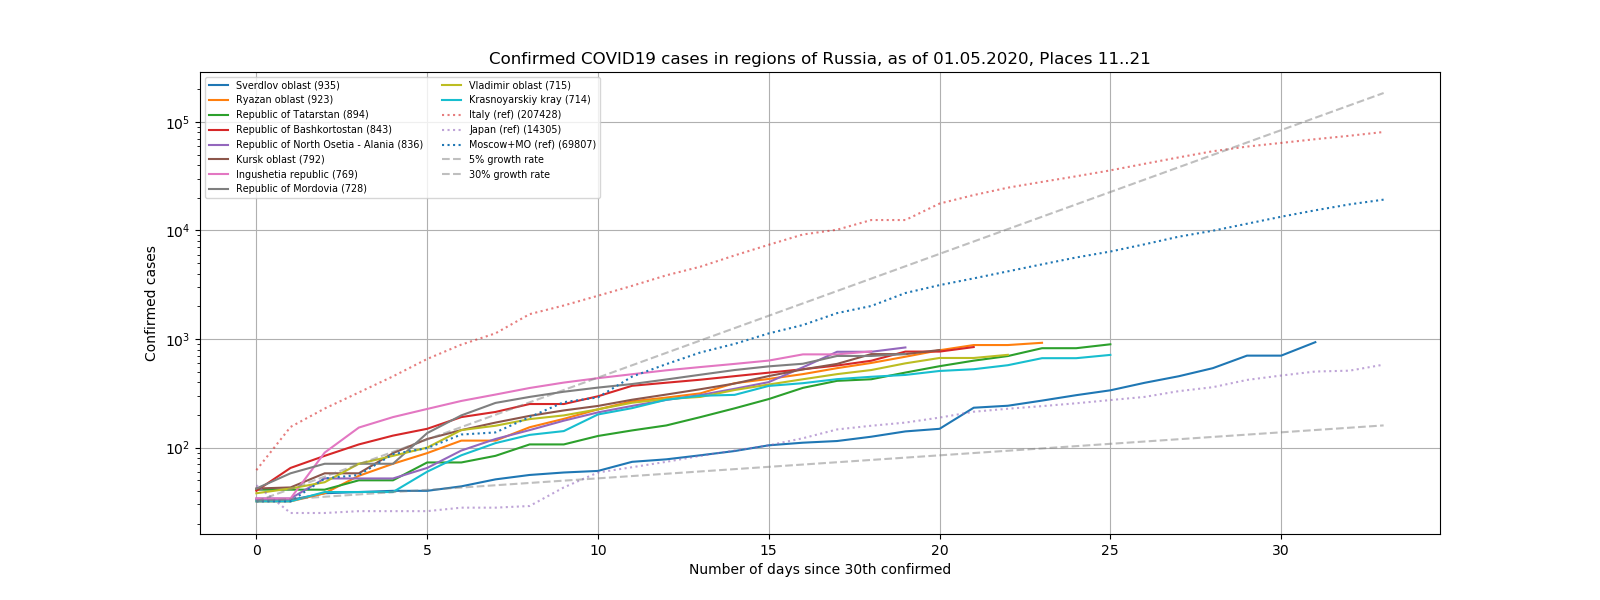
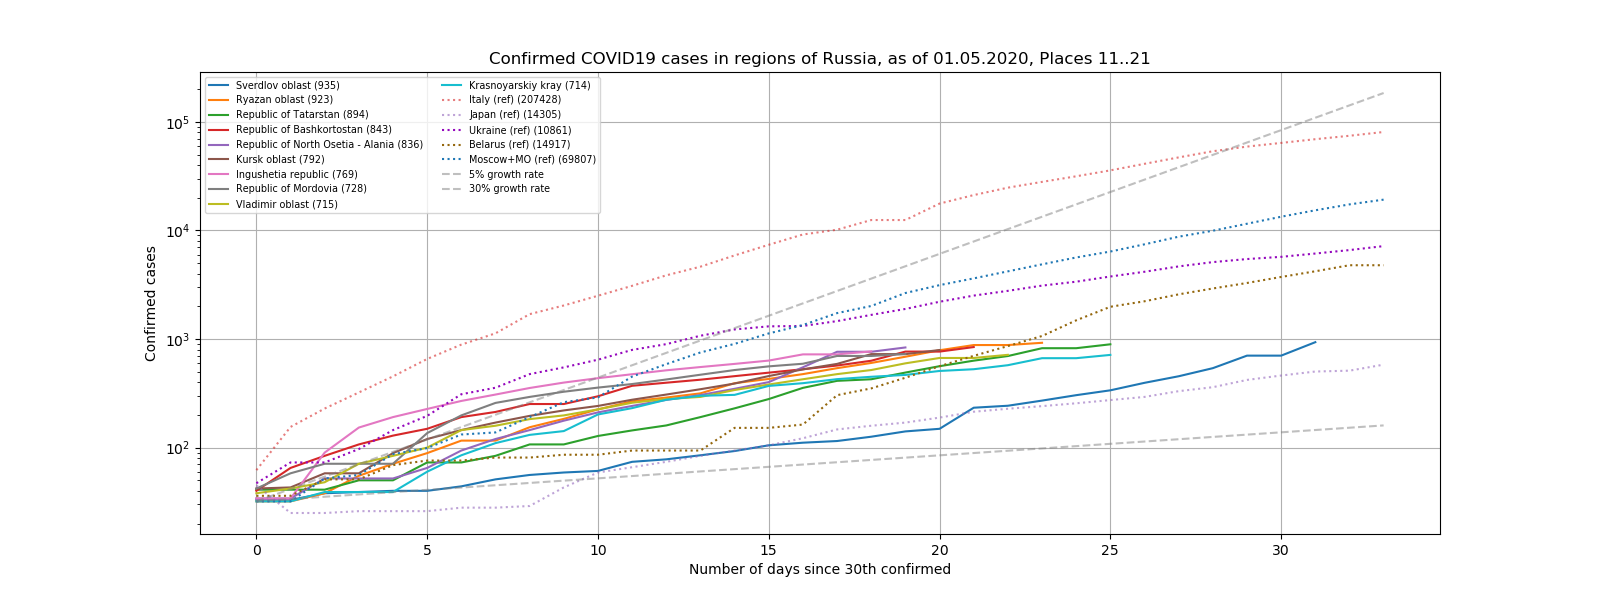
Update plots, add Ukraine and Belarus

Changed region(s): [[0.125, 0.12, 0.375, 0.36]]

diff --git a/python3/src/covid19ru/plot.py b/python3/src/covid19ru/plot.py
@@ -105,6 +105,8 @@ def plot_(metric_fn,
   out.update({k:v for k,v in tls_list})
   out[('', 'Italy (ref)')]=list(timelines(country_region='Italy', default_loc='').values())[0]
   out[('', 'Japan (ref)')]=list(timelines(country_region='Japan', default_loc='').values())[0]
+  out[('', 'Ukraine (ref)')]=list(timelines(country_region='Ukraine', default_loc='').values())[0]
+  out[('', 'Belarus (ref)')]=list(timelines(country_region='Belarus', default_loc='').values())[0]
   if ('Moscow+MO','Russia') not in out and ('Moscow+MO','Russia') in tls:
     out.update({('Moscow+MO (ref)','Russia'):tls[('Moscow+MO','Russia')]})
   lastdate=out[tls_list[0][0]].dates[-1]
@@ -156,17 +158,25 @@ def plot_(metric_fn,
       if label is None:
         label={'Russia':'Россия',
                'Italy (ref)':'Италия (справ.)',
-               'Japan (ref)':'Япония (справ.)'}.get(cr,cr)
+               'Japan (ref)':'Япония (справ.)',
+               'Ukraine (ref)':'Украина (справ.)',
+               'Belarus (ref)':'Беларусь (справ.)',
+               }.get(cr,cr)
     else:
       label=ps or cr
     label+=f" ({int(metric_fn(tl)[-1])})"
 
     alpha=0.6 if cr in ['Italy (ref)','Japan (ref)'] else 1.0
     color={'Italy (ref)':'#d62728',
-           'Japan (ref)':'#9467bd'}.get(cr)
+           'Japan (ref)':'#9467bd',
+           'Ukraine (ref)':'#9407bd',
+           'Belarus (ref)':'#94670d',
+           }.get(cr)
     ls={'Moscow+MO (ref)':':'}.get(ps,
           {'Italy (ref)':':',
            'Japan (ref)':':',
+           'Ukraine (ref)':':',
+           'Belarus (ref)':':',
           }.get(cr))
     p=plt.plot(ticks, metric, label=label, alpha=alpha, color=color, linestyle=ls)
 
